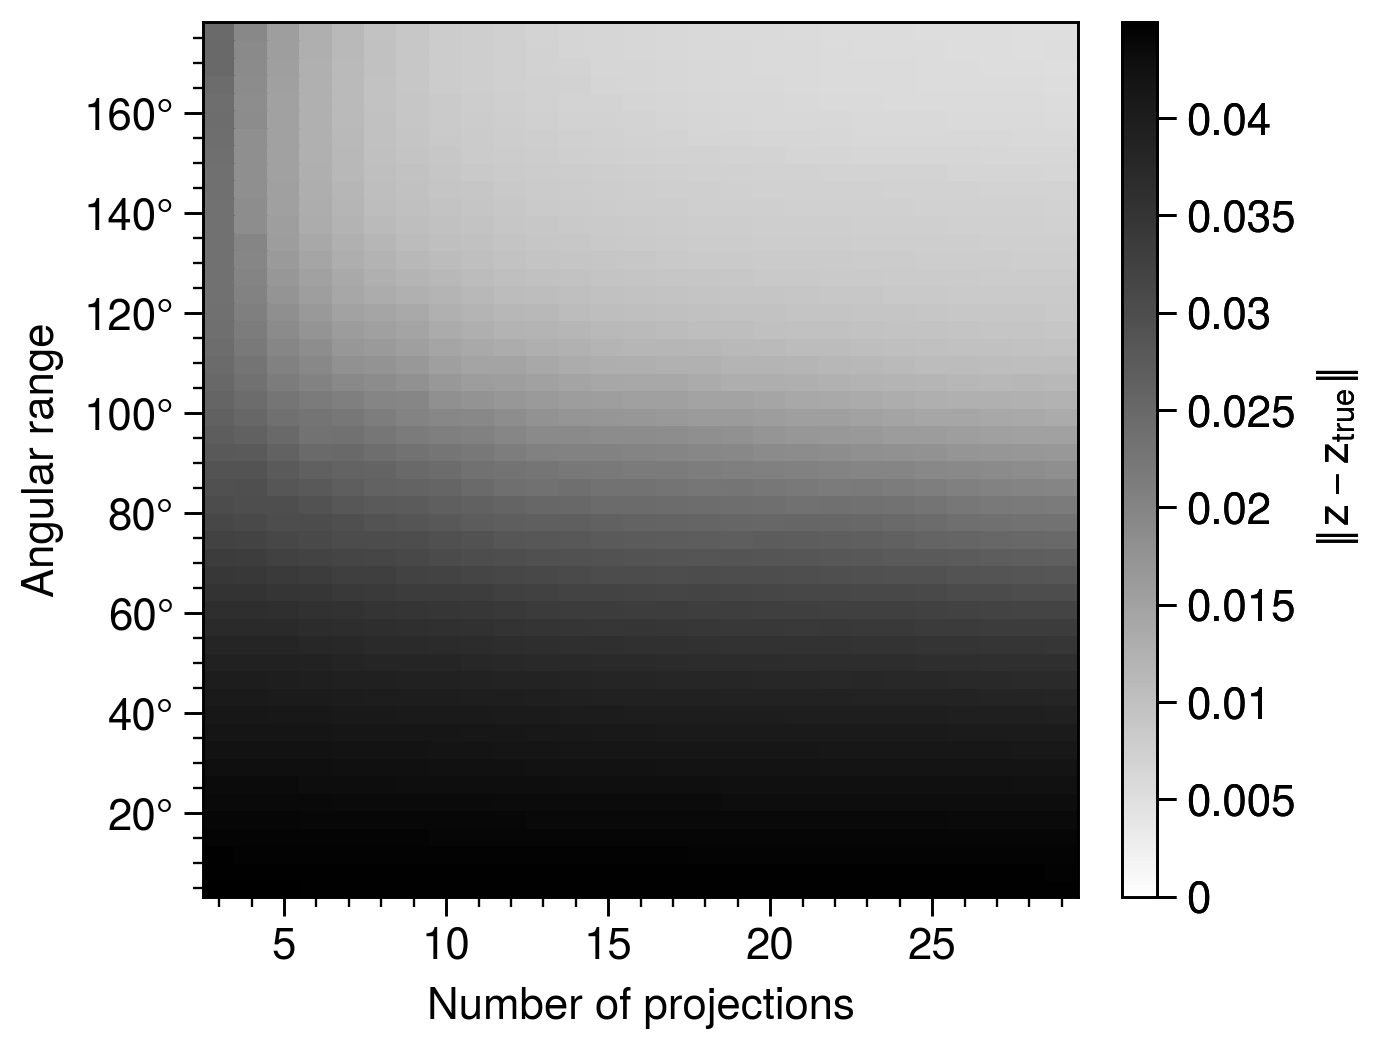
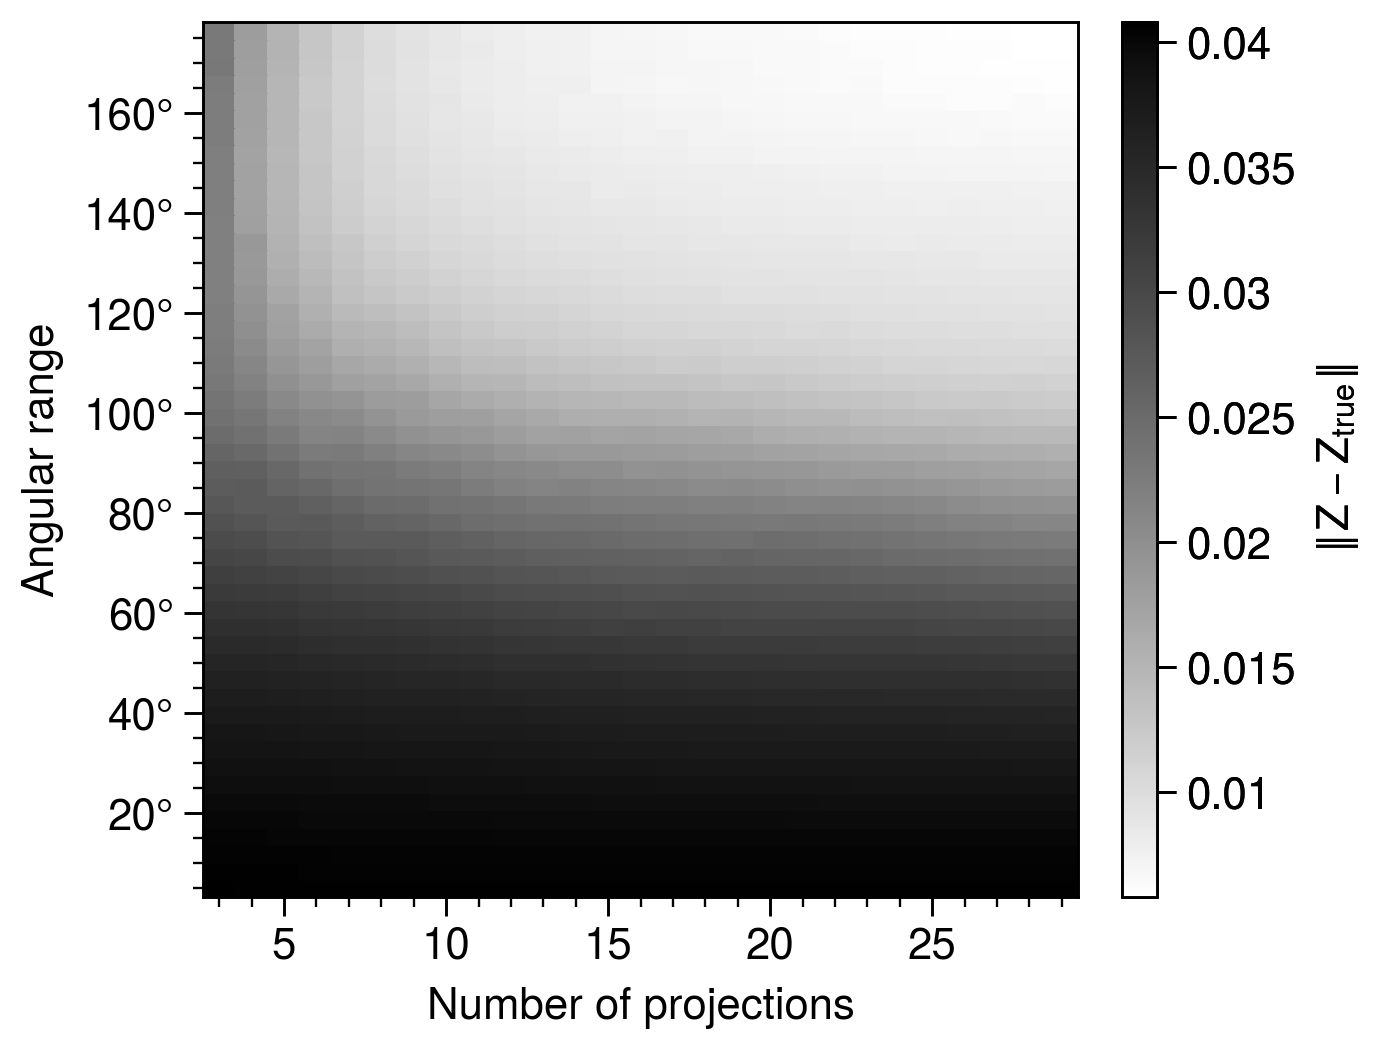
Swap target image plot

diff --git a/MainText/chapter4.tex b/MainText/chapter4.tex
@@ -270,25 +270,25 @@ Many algorithms exist to reconstruct 2D images from 1D projections, such as filt
     p_b(x_b) = \int_{-\infty}^{\infty} f(x_b, x'_b) dx'_b.
 \end{equation}
 %
-Let $\tilde{x}$ be the projection axis $x_b$ transported to $a$. $\tilde{x}_a$ is rotated by an angle $\theta$ relative to $x_a$ \cite{Hock2013a}: 
+The projection at $a$ will be along axis $\tilde{x}_a$, which is rotated at angle $\theta$ above the $x_a$ axis. The angle is computed from the transfer matrix: \cite{Hock2013a}: 
 %
 \begin{equation}\label{eq:proj_trans_1}
     \tan\theta = \frac{M_{12}}{M_{11}}.
 \end{equation}
 %
-The distance along the axis will be scaled:
+The distance along the projection will be scaled:
 %
 \begin{equation}\label{eq:proj_trans_2}
     r = \frac{x_b}{\tilde{x}_a} = \sqrt{M_{11}^2 + M_{12}^2}.
 \end{equation}
 %
-The projections are related by
+The projection must then be scaled to conserve area. The projections at $a$ and $b$ are related by 
 %
 \begin{equation}\label{eq:proj_trans_3}
-    p_a(\tilde{x}_a) = r p_b(r\tilde{x}_a).
+    p_a(\tilde{x}_a) = r p_b(r \tilde{x}_a).
 \end{equation}
 %
-Standard tomography algorithms can be applied to the transformed projections.
+Standard tomography algorithms can be applied to the scaled projections.
 
 It is also possible to reconstruct in normalized phase space \cite{Hock2011}. Recall the normalization matrix $\mathbf{V}$ from Eq.~\eqref{eq:CS_parameterization}. In normalized coordinates, the transfer matrix is a rotation matrix by an angle equal to the phase advance. It is straightforward to obtain the projections in the normalized phase space at $a$:
 %
@@ -300,7 +300,7 @@ It is also possible to reconstruct in normalized phase space \cite{Hock2011}. Re
 \end{aligned}
 \end{equation}
 %
-where $\mathbf{V}$ is a function of the Twiss parameters at $a$. The previous equations can be applied to the new matrix $\mathbf{M} \mathbf{V}$ to obtain the projections in the normalized phase space at $a$. After the image is reconstructed, the true distribution can be obtained by transforming the grid coordinates using $\mathbf{V}$ and interpolating at the transformed coordinates. Note that any Twiss parameters can be used to form $\mathbf{V}$; if the Twiss parameters are matched to the distribution, the rotation angle of the projection will be the phase advance from $a$ to $b$, and the reconstructed distribution will be circular in the normalized phase space. 
+where $\mathbf{V}$ is a function of the Twiss parameters at $a$. The previous equations can be applied to the new matrix $\mathbf{M} \mathbf{V}$ to obtain the projections in the normalized phase space at $a$. After the image is reconstructed, the true distribution can be obtained by transforming the grid coordinates using $\mathbf{V}$ and interpolating at the transformed coordinates. Note that any Twiss parameters can be used to form $\mathbf{V}$; if the Twiss parameters are matched to the distribution, the rotation angle of the projection will be the phase advance from $a$ to $b$, and the reconstructed distribution will be circular in the normalized phase space.
 
 
 
@@ -308,7 +308,7 @@ where $\mathbf{V}$ is a function of the Twiss parameters at $a$. The previous eq
 
 Recent work by Hock et al. reduces 4D reconstruction to a series of 2D reconstructions when the $x$-$y$ projections are available \cite{Hock2013a}. The method, which we refer to as Hock's method, is as follows. Assume that the horizontal and vertical angles (or phase advances) can be controlled independently. Let the angles in $x$-$x'$ be \{$\theta_{x_1}$, $\dots$, $\theta_{x_k}$, $\dots, \theta_{x_K}$\} and the angles in $y$-$y'$ be \{$\theta_{y_1}$, $\dots$, $\theta_{y_l}$, $\dots$, $\theta_{y_L}$\}. The projections are stored in an array $\mathbf{S}$, where $\mathbf{S}_{i,j,k,l}$ is the intensity at point ($x_i$, $y_j$) on the screen for angles $\theta_x = \theta_{x_k}$, $\theta_y = \theta_{y_l}$. We can immediately reconstruct a 3D projection of the distribution from this data. Consider a single row of the image — the intensity along the row gives a 1D projection onto the $x$ axis for a horizontal slice of the distribution. We have a set of these 1D projections at different $\theta_{x}$ which we can use to reconstruct the $x$-$x'$ distribution at this slice using any 1D $\rightarrow$ 2D reconstruction method. Repeating at each slice gives the array $\mathbf{D}$, where $\mathbf{D}_{j, l, r, s}$ is the density at $x = x_r$, $x' = x'_s$, $y = y_j$, for $\theta_{y} = \theta_{y_l}$. We then analyze the vertical plane. At each bin in the reconstructed $x$-$x'$ grid, we have a set of 1D projections of $y$-$y'$ at each $\theta_{y_l}$, thus, $y$-$y'$ can be reconstructed. This completes the reconstruction: we have an array $\mathbf{Z}$, where $\mathbf{Z}_{r, s, t, u}$ is the density at $x = x_r$, $x' = x_s$, $y = y_t$, $y' = y'_u$.
 
-To test the method, the 600,000-particle distribution from Fig.~\ref{fig:Holmes_corner_compare} was used. Simultaneous algebraic reconstruction (SART) was used for the 2D reconstructions. The accuracy of SART will depend on the number of projections and the range of projection angles. Fig.~\ref{fig:tomo_sim_art2D} demonstrates this by reconstructing the $x$-$x'$ distribution from 1D projections as these numbers are varied.
+To test the method, the 600,000-particle distribution from Fig.~\ref{fig:Holmes_corner_compare} was used. In \cite{Hock2013a}, filtered back-projection (FBP) was used in the 2D reconstructions. The disadvantage of FBP is that it requires many projections; simultaneous algebraic reconstruction (SART) is a possible alternative when the number of projections is small. The accuracy of SART will depend on the number of projections and the range of projection angles. Fig.~\ref{fig:tomo_sim_art2D} demonstrates this by reconstructing the $y$-$y'$ distribution from 1D projections as these numbers are varied.
 %
 \begin{figure}[!p]
     \centering
@@ -319,17 +319,16 @@ To test the method, the 600,000-particle distribution from Fig.~\ref{fig:Holmes_
     \vspace*{3.0cm}
 \end{figure}
 %
-It appears that if the projection angles are distributed over a significant range, the accuracy does not improve much beyond 10-15 projections. As discussed later, 15 projections is likely near the maximum possible in the SNS. Thus, for the 4D reconstruction, the phase advances in both planes were scanned over $180\degree$ in 15 steps; at each step, the distribution was transported to and then binned on a virtual screen. The reconstruction was performed in normalized phase space using the following Twiss parameters: $(\alpha_x, \alpha_y, \beta_x, \beta_y) = (
--0.030,\, 0.213,\, 17.027,\, 9.631)$, which are close, but not equal, to the statistical beam parameters: $\alpha_x, \alpha_y, \beta_x, \beta_y = (0.003,\, 0.125,\, 22.70,\, 11.88)$. Fig.~\ref{fig:tomo_sim_target_scan} shows the simulated images in normalized space. The screen resolution in the figure is $75 \times 75$.
+It appears that if the projection angles are distributed over a significant range, the accuracy does not improve much beyond 10-15 projections. As discussed later, 15 projections is likely near the maximum possible in the SNS. In the following simulated 4D reconstruction, the phase advances in both planes were scanned over $180\degree$ in 12 steps; at each step, the distribution was transported to and then binned on a virtual screen. The reconstruction was performed in normalized phase, and it was assumed that the distribution was matched to the lattice parameters. Fig.~\ref{fig:tomo_sim_target_scan} shows the simulated images in normalized space with a screen resolution of $75 \times 75$.
 %
 \begin{figure}[!p]
     \centering
-    \includegraphics[width=\textwidth]{Images/chapter4/tomo_sim_target_scan2.png}
+    \includegraphics[width=\textwidth]{Images/chapter4/tomo_sim_target_scan_full.png}
     \caption{Simulated $x$-$y$ projections as the horizontal (rows) and vertical (columns) phase advances are varied.}
     \label{fig:tomo_sim_target_scan}
 \end{figure}
 %
-Hock's method was then applied to these projections. The 2D projections of the reconstructed distribution are compared to the original distribution in Fig.~\ref{fig:tomo_sim_rec_hock_proj_2D}.
+Three SART iterations were used for each 2D reconstruction. The 2D projections of the reconstructed distribution are compared to the original distribution in Fig.~\ref{fig:tomo_sim_rec_hock_proj_2D} in normalized phase space.
 %
 \begin{figure}[!p]
     \centering
@@ -338,9 +337,8 @@ Hock's method was then applied to these projections. The 2D projections of the r
     \label{fig:tomo_sim_rec_hock_proj_2D}
 \end{figure}
 %
-The main features of the original distribution are present in the reconstruction.
 
-Hock's method has not yet been experimentally demonstrated, likely due to the long measurement time, but the method is preferred because it leverages 2D reconstruction algorithms. Open-source implementations of these algorithms are widely available and the conditions needed for accurate reconstructions are well-understood, primarily due to the use of tomography in medical imaging. 
+This method is preferred because it leverages 2D reconstruction algorithms. Open-source implementations of these algorithms are widely available and the conditions needed for accurate reconstructions are well-understood, primarily due to the use of tomography in medical imaging. 
 
 
 \subsection{Direct 4D reconstruction}
